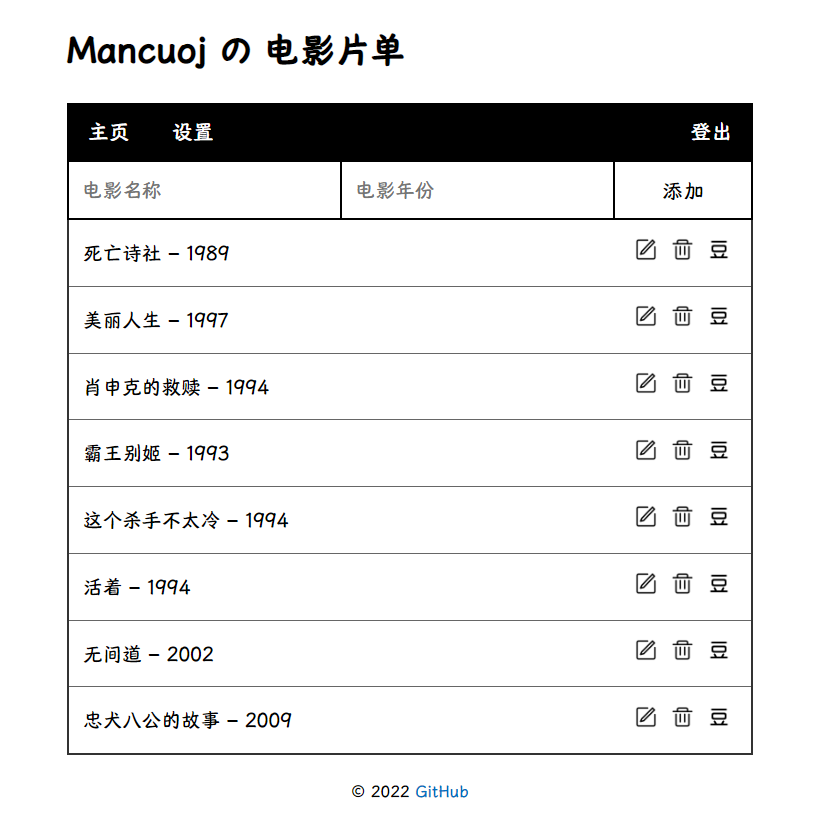
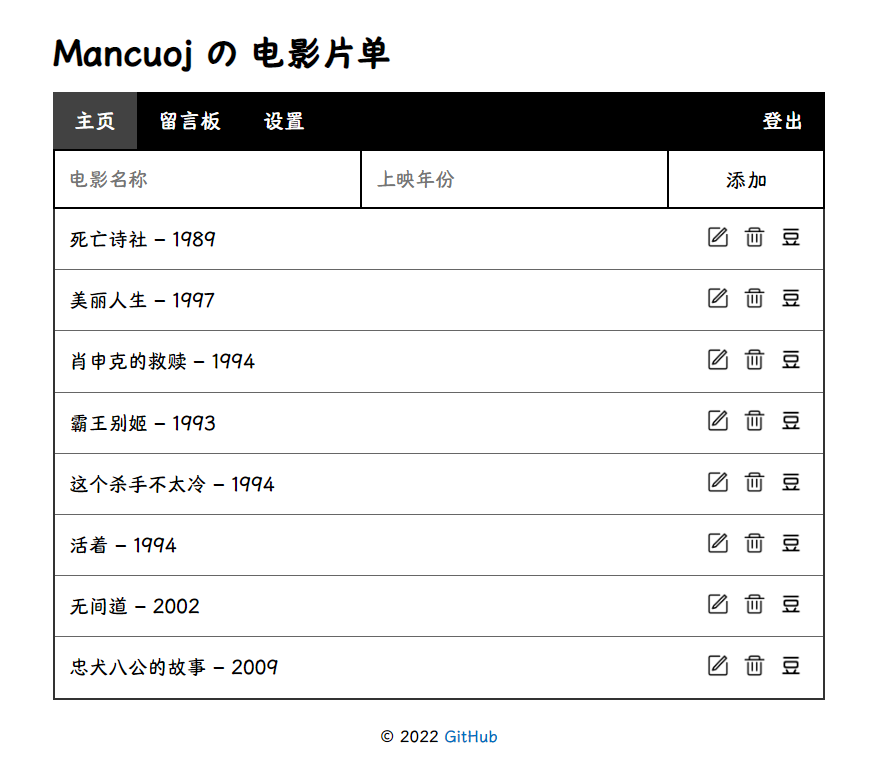
docs: update readme

Changed region(s): [[0.061, 0.0307, 0.9451, 0.9834], [0.7317, 0.1844, 0.7927, 0.2151]]

diff --git a/README.md b/README.md
@@ -16,6 +16,7 @@ Flask 入门项目：电影片单
 - [x]  设置（用于更新用户名）
 - [x]  注册（用户共享一张电影列表）
 - [x]  留言板
+- [x]  集成 Flask-WTF
 - [ ]  ...
 
 
@@ -38,7 +39,13 @@ flask run
 
 <p align="center">
     <a href="https://mancuoj.pythonanywhere.com/" target="_blank">
-        <img src="./assets/sc1.png" alt="logo"/>
+        <img src="./assets/sc1.png"/>
+    </a>
+</p>
+
+<p align="center">
+    <a href="https://mancuoj.pythonanywhere.com/" target="_blank">
+        <img src="./assets/sc2.png" />
     </a>
 </p>
 
